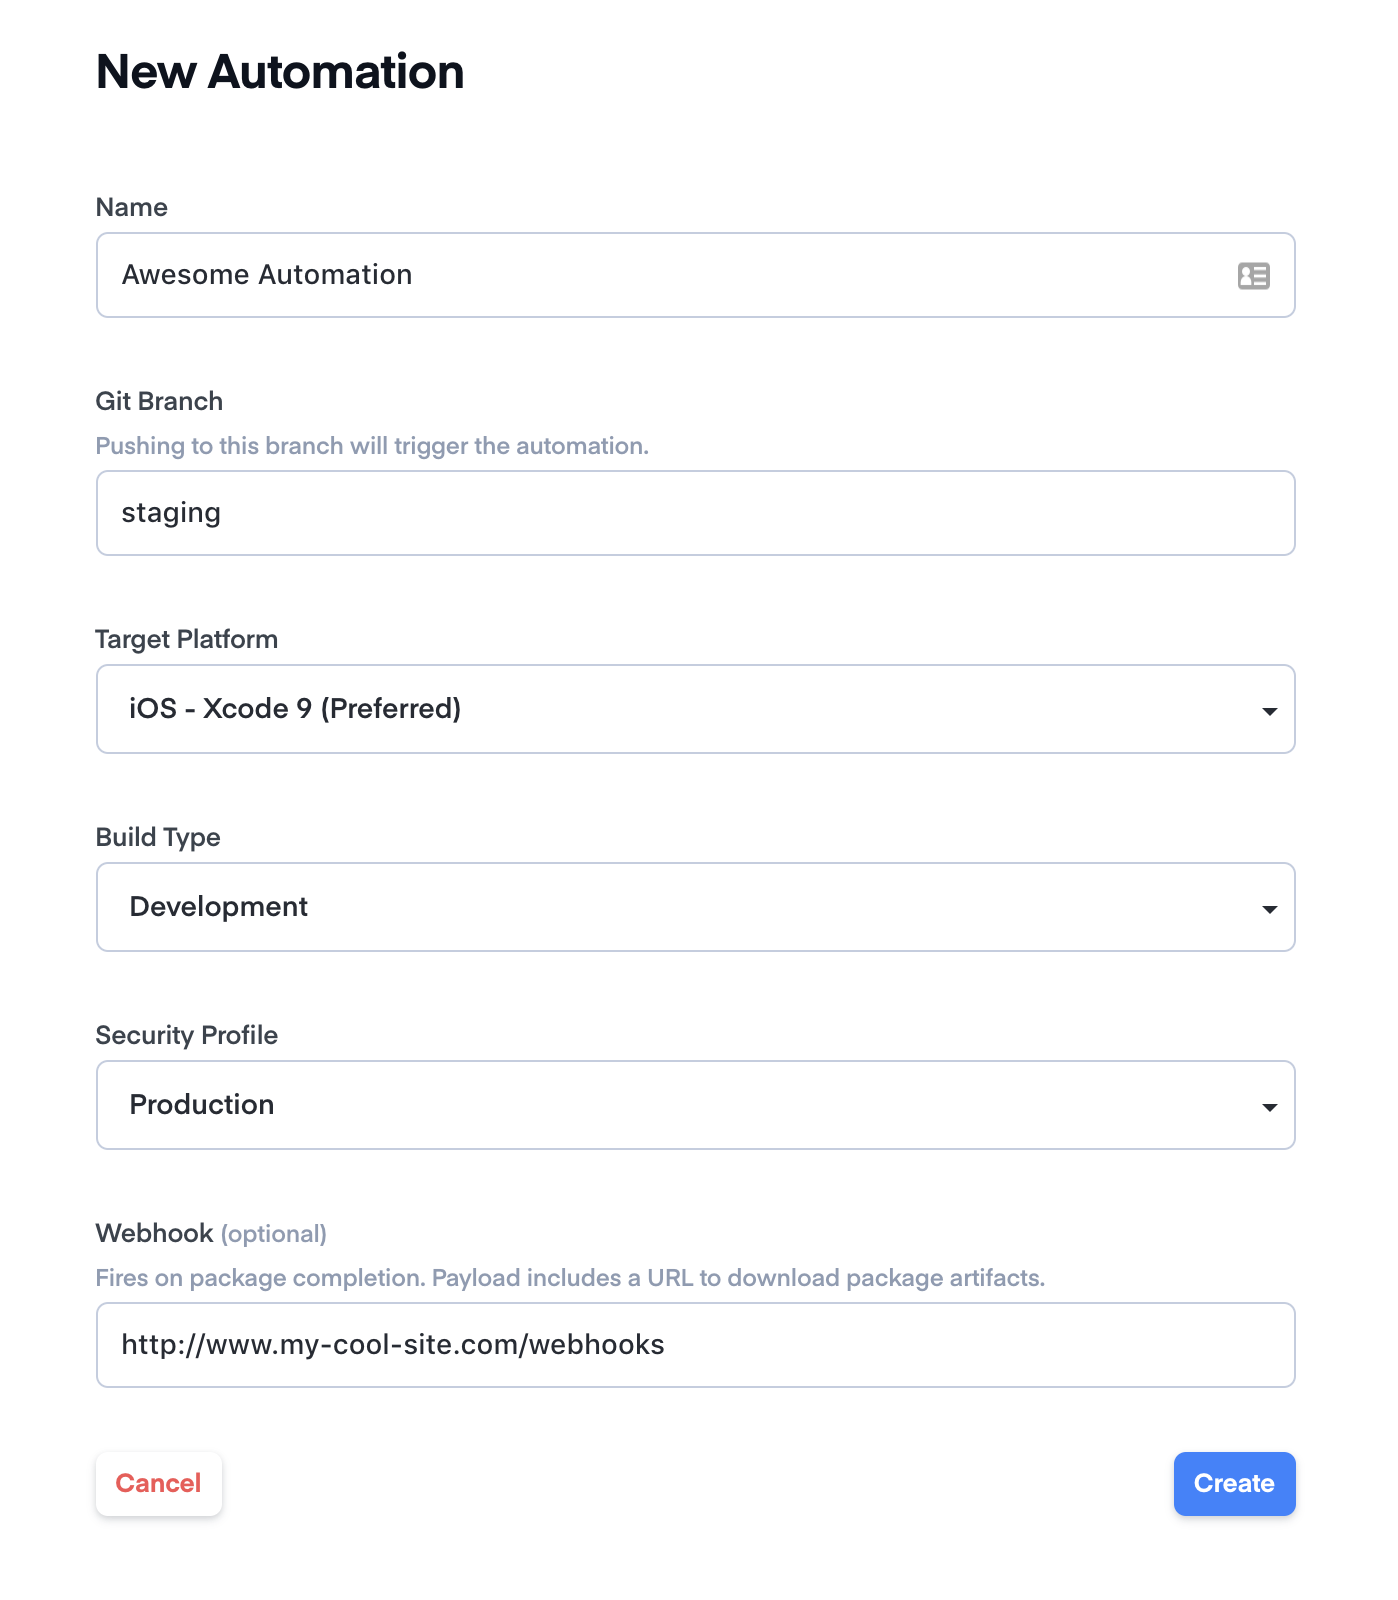
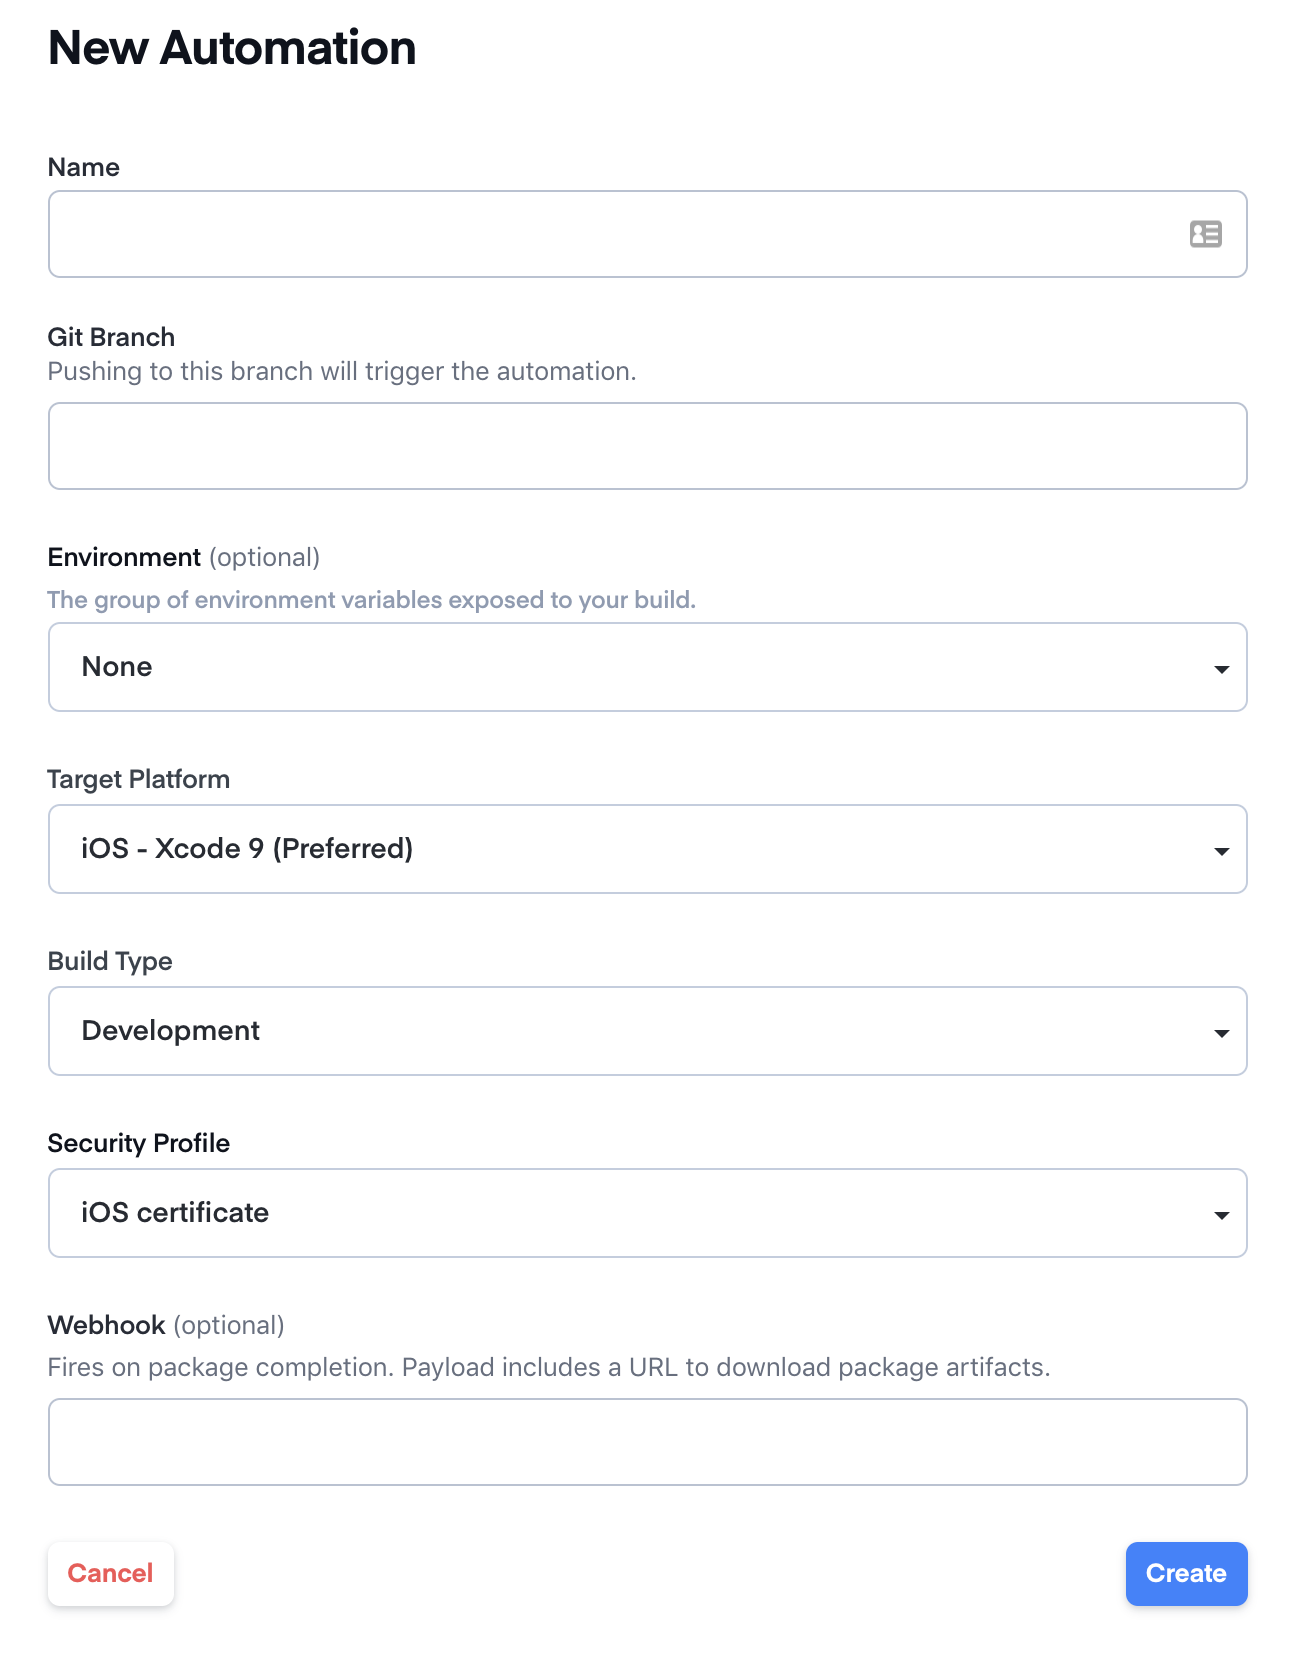
Update automation screenshots and docs

diff --git a/src/content/pro/automation/create.md b/src/content/pro/automation/create.md
@@ -1,8 +1,6 @@
 # Managing Automations
 
-Creating new automations is simple.  To get started, simply navigate to the `Automate` tab within the desired app:
-
-<img style="width: 230px" src="/docs/assets/img/pro/ss-automations-automate-tab.png" class="browser" />
+Creating new automations is simple.  To get started, simply navigate to the `Automate` tab within the desired app.
 
 ## Creating Automations
 
@@ -10,36 +8,27 @@ To create a new automation, click the `New Automation` button on the top right o
 
 <img src="/docs/assets/img/pro/ss-automations-dashboard-new.png" class="browser" />
 
+Upon clicking, the automation customization form will appear (seen below), which has several fields available to customize the automation:
+
+
 ## Editing Automations
 
 To edit an automation, click the three dots next to the one you'd like to modify.
 
 <img src="/docs/assets/img/pro/ss-automations-dashboard-settings.png" class="browser" />
 
-## Automation Fields
+## Customizing Automations
+
+There are a number of customizations available to specify the specific behavior of a given automation. They are shown on the create/edit automation form below.
 
 <img src="/docs/assets/img/pro/ss-automations-automate-form.png" class="browser" />
 
-### Name
+### Fields
 
-A name to remember your automation by.
-
-### Git Branch
-
-The branch which will trigger your automation.  This will run your build any time someone makes a `git push` to the specified branch.
-
-### Target Platform
-
-The platform you're targeting, can be Android or iOS (for either Xcode 8 or 9)
-
-### Build Type
-
-The type of build you'd like to create. Options depend on the selected platform.
-
-### Security Profile
-
-Which security profile you'd like to use. If you have no profiles set up, you can learn more about them [here](/docs/pro/package/profiles.html).
-
-### Webhook
-
-(optional) If specified, we'll send a POST with information about completed builds to a webhook of your choice.  You can learn more about their content [here](/docs/pro/automation/webhooks).
+* **Name:** A name to remember your automation by.
+* **Git Branch:** The branch which will trigger your automation.  This will run your build any time someone makes a `git push` to the specified branch.
+* **Environment:** The [custom build environment](/docs/pro/builds/environments#custom-environments) (if any) to use when this automations is triggered.
+* **Target Platform:** The platform you're targeting, can be Android or iOS (for either Xcode 8 or 9)
+* **Build Type:** The type of build you'd like to create. Options depend on the selected platform.
+* **Security Profile:** Which security profile you'd like to use. If you have no profiles set up, you can learn more about them [here](/docs/pro/package/profiles.html).
+* **Webhook:** (optional) If specified, we'll send a POST with information about completed builds to a webhook of your choice.  You can learn more about their content [here](/docs/pro/automation/webhooks).
